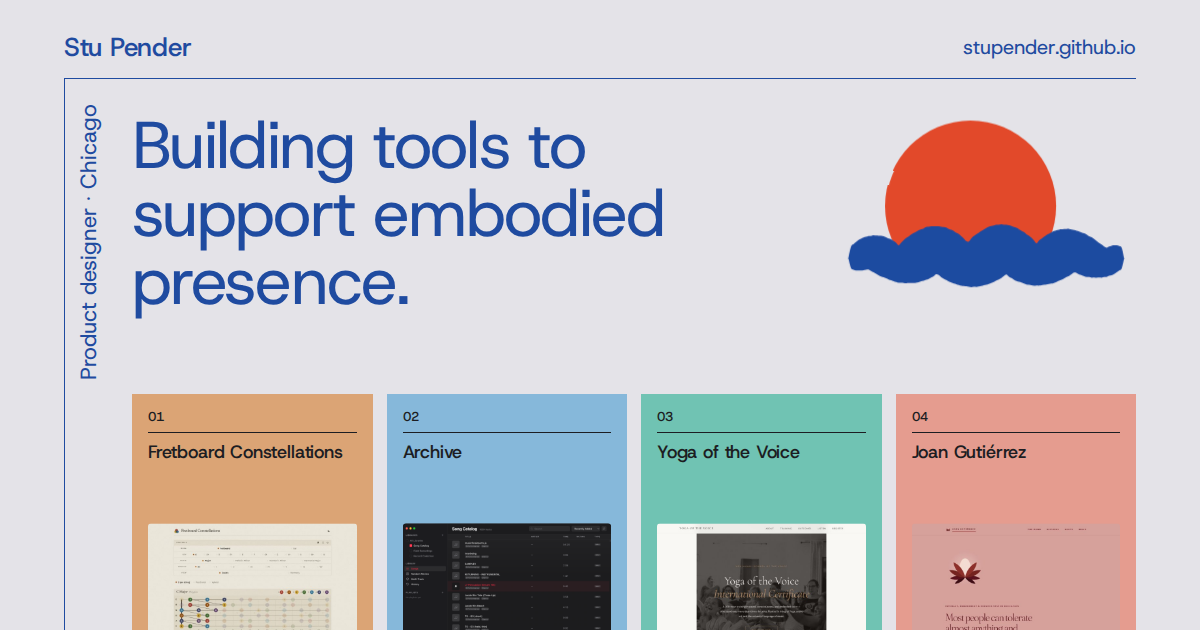
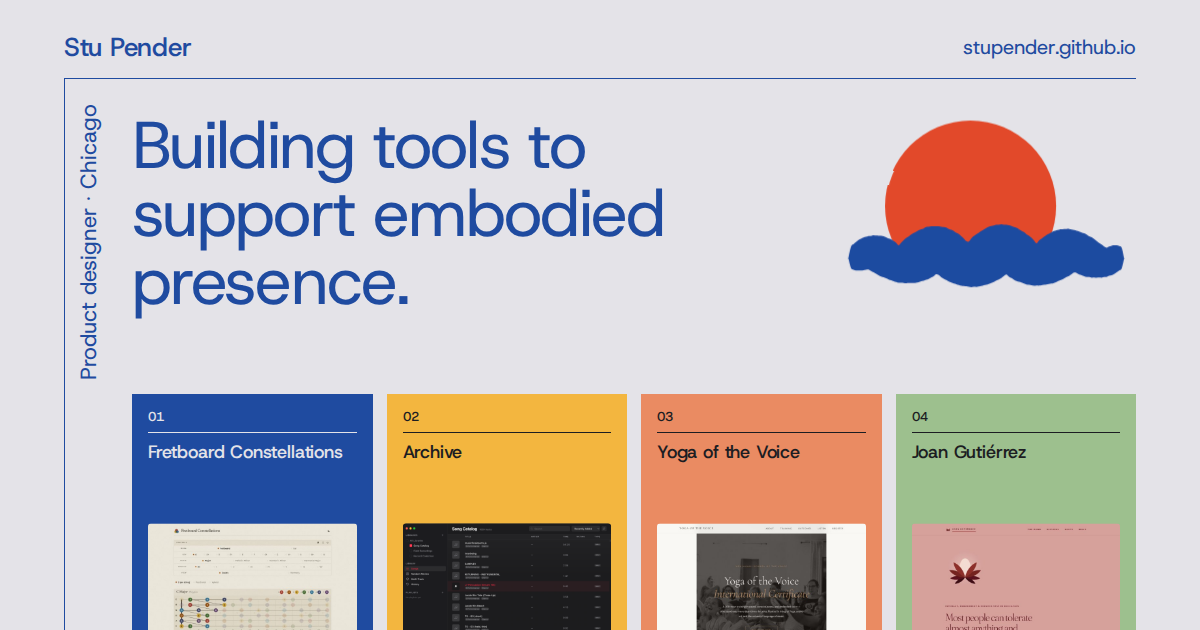
Palette D: cobalt, saffron, terracotta, sage — chosen against each screenshot
The cards and case-study headers move to colours picked so each
screenshot stands out: cobalt for Fretboard (the blue of the type),
saffron for Archive, terracotta for Yoga of the Voice, sage for Joan
Gutiérrez (05 khaki, 11 slate). Cobalt is the one dark field, so its
card, header and next card print light type via .on-dark; panels and
other next cards reset to black. Lower-panel pairs follow:
cobalt/butter, saffron/slate, terracotta/teal, sage/mauve, khaki/orange,
slate/sand. Link-preview card updated to match. Contrast passes AA.

Claude-Session: https://claude.ai/code/session_01LLZ4q1jfkHcvGvjUiXE1J6

Changed region(s): [[0.0925, 0.6032, 0.9558, 1.0]]

diff --git a/styles.css b/styles.css
@@ -50,28 +50,31 @@
     --hair:       rgb(var(--cobalt-rgb) / 0.26);
     --sun:        #E24A2B;                 /* the sun in the picture only  */
 
-    /* Fields — one colour per project, for its card and the back of the
-       card (its case study). One lightness (OKLCH 0.76), low chroma,
-       blue held lower still, so they read as one muted set. Ink on each
-       is ≥ 7.8 : 1; secondary text is ink at 78% (≥ 5.1 : 1). */
-    --f-coral:    #E59C8F;
-    --f-orange:   #DBA475;
-    --f-mustard:  #CBAD6D;
-    --f-sage:     #9ABE87;
-    --f-teal:     #70C3B3;
-    --f-sky:      #86B8DA;
+    /* Fields — one colour per project, chosen against its screenshot
+       so the work stands out: the colour of its card and of the top of
+       its case study. Ink on each ≥ 6.7 : 1, ink at 78% ≥ 4.5 : 1.
+       Cobalt is the one dark field: type on it prints light (.on-dark,
+       grey on cobalt 6.4 : 1, at 82% 4.9 : 1). */
+    --f-sky:        #86B8DA;
+    --f-cobalt:     var(--cobalt);
+    --f-saffron:    #F3B63F;
+    --f-terracotta: #EA8B62;
+    --f-sage:       #9DC08E;
+    --f-khaki:      #ABA884;
+    --f-slate:      #99AACB;
     /* Pairs — each case study's lower panels (the summary, the client's
-       words) take a counterpart to its card colour, the way the 1971
-       catalogue pairs an orange cover with a khaki one. Same rules: ink
-       ≥ 6.9 : 1, ink at 78% ≥ 4.6 : 1. */
-    --p-khaki:    #ABA884;                 /* with orange  (01) */
-    --p-sand:     #D9BC86;                 /* with sky     (02) */
-    --p-clay:     #DE9F86;                 /* with teal    (03) */
-    --p-sage2:    #A5BC92;                 /* with coral   (04) */
-    --p-mauve:    #CDA3AE;                 /* with sage    (05) */
-    --p-slate:    #99AACB;                 /* with mustard (11) */
-    --on-field:   rgb(var(--ink-rgb) / 0.78);
-    --field-rule: rgb(var(--ink-rgb) / 0.3);
+       words) take a counterpart to its field, the way the 1971 catalogue
+       pairs an orange cover with a khaki one. Same contrast rules. */
+    --p-sand:       #D9BC86;               /* with sky, with slate     */
+    --p-butter:     #E9CB80;               /* with cobalt              */
+    --p-slate:      #A3B3D2;               /* with saffron             */
+    --p-teal:       #8CC3B4;               /* with terracotta          */
+    --p-mauve:      #CDA3AE;               /* with sage                */
+    --p-orange:     #DBA475;               /* with khaki               */
+    /* Type on a field: black by default, light on a dark field. */
+    --on:           var(--ink);
+    --on-soft:      rgb(var(--ink-rgb) / 0.78);
+    --on-rule:      rgb(var(--ink-rgb) / 0.3);
 
     --font: 'Host Grotesk', 'Helvetica Neue', Arial, sans-serif;
 
@@ -488,7 +491,7 @@ a[download]::after {
     aspect-ratio: 4 / 5;
     padding: clamp(0.95rem, 1.6vw, 1.25rem) clamp(0.95rem, 1.6vw, 1.25rem) 0;
     background: var(--field);
-    color: var(--ink);
+    color: var(--on);
     text-decoration: none;
     overflow: hidden;
 }
@@ -496,7 +499,7 @@ a[download]::after {
     display: flex;
     justify-content: space-between;
     padding-bottom: 0.55rem;
-    border-bottom: 1px solid var(--ink);
+    border-bottom: 1px solid var(--on);
     font-size: var(--t-small);
     font-variant-numeric: tabular-nums;
 }
@@ -515,7 +518,7 @@ a[download]::after {
     margin-top: 0.35rem;
     font-size: var(--t-small);
     line-height: 1.35;
-    color: var(--on-field);
+    color: var(--on-soft);
 }
 .card-img,
 .cs-next-img {
@@ -534,7 +537,7 @@ a[download]::after {
 .card:hover .card-title,
 .cs-next-link:hover .cs-next-name {
     text-decoration: underline;
-    text-decoration-color: var(--ink);
+    text-decoration-color: var(--on);
     text-decoration-thickness: 2px;
     text-underline-offset: 0.18em;
 }
@@ -840,34 +843,34 @@ a[download]::after {
     margin-bottom: clamp(2rem, 5vw, 3rem);
     padding: clamp(1.2rem, 3vw, 2rem) clamp(1.2rem, 3.5vw, 2.6rem) clamp(1.4rem, 3.5vw, 2.4rem);
     background: var(--field, var(--card));
-    color: var(--ink);
+    color: var(--on);
 }
 .cs-head .eyebrow {
     font-size: var(--t-small);
     font-weight: 400;
-    color: var(--ink);
+    color: var(--on);
     padding-top: 0.6rem;
-    border-top: 1px solid var(--ink);
+    border-top: 1px solid var(--on);
     margin-bottom: clamp(1.8rem, 5vw, 3.2rem);
 }
 .cs-no { font-weight: 500; margin-right: 0.6rem; }
 .cs-title { font-size: var(--t-h1); line-height: 1.02; letter-spacing: -0.025em; margin: 0 0 1rem; }
-.cs-sub { font-size: var(--t-lede); line-height: 1.5; color: var(--on-field); margin: 0 0 1.8rem; }
+.cs-sub { font-size: var(--t-lede); line-height: 1.5; color: var(--on-soft); margin: 0 0 1.8rem; }
 .cs-meta {
     display: flex;
     flex-wrap: wrap;
     gap: 0.8rem 2.6rem;
     margin: auto 0 1.4rem;
     padding: 1rem 0;
-    border-top: 1px solid var(--field-rule);
-    border-bottom: 1px solid var(--field-rule);
+    border-top: 1px solid var(--on-rule);
+    border-bottom: 1px solid var(--on-rule);
 }
-.cs-meta dt { font-size: var(--t-label); color: var(--on-field); margin-bottom: 0.15rem; }
+.cs-meta dt { font-size: var(--t-label); color: var(--on-soft); margin-bottom: 0.15rem; }
 .cs-meta dd { margin: 0; font-size: var(--t-small); }
 .cs-toplinks { margin: 0; }
 /* On a colour, cobalt type is too faint: buttons print in black there. */
-.cs-head .project-links a { color: var(--ink); }
-.cs-head .project-links a:hover { background: var(--ink); border-color: var(--ink); color: var(--paper); }
+.cs-head .project-links a { color: var(--on); }
+.cs-head .project-links a:hover { background: var(--on); border-color: var(--on); color: var(--field); }
 
 .cs-figure { margin: 2rem 0; }
 .cs-figure img { width: 100%; outline: 1px solid var(--hair); }
@@ -903,6 +906,26 @@ a[download]::after {
 .cs-tldr dd { margin: 0; line-height: 1.55; color: var(--ink-soft); max-width: 66ch; }
 .cs-tldr dd strong { color: var(--ink); }
 
+/* Light type on a dark field (cobalt). Panels and the next card set
+   their own type, so a dark top never leaks onto a light panel. */
+.on-dark {
+    --on:      var(--paper);
+    --on-soft: rgb(var(--paper-rgb) / 0.82);
+    --on-rule: rgb(var(--paper-rgb) / 0.4);
+}
+.cs-tldr, .cs-quote, .cs-next-link {
+    --on:      var(--ink);
+    --on-soft: rgb(var(--ink-rgb) / 0.78);
+    --on-rule: rgb(var(--ink-rgb) / 0.3);
+}
+.cs-next-link.on-dark {
+    --on:      var(--paper);
+    --on-soft: rgb(var(--paper-rgb) / 0.82);
+    --on-rule: rgb(var(--paper-rgb) / 0.4);
+}
+/* A block on a cobalt card turns paper, so it doesn't vanish. */
+.cs-next-link.on-dark .blk { background: var(--paper); border-color: var(--paper); color: var(--cobalt); }
+
 /* The lower panels: on a case study with a pair colour, the summary
    and the client's words sit on that counterpart, full width, set like
    the header above them — a rule, then the words, all in black. */
@@ -913,14 +936,14 @@ a[download]::after {
     border-top: 0;
 }
 .cs[style] .cs-head + .cs-tldr { margin-top: calc(-1 * clamp(2rem, 5vw, 3rem) + clamp(0.8rem, 1.8vw, 1.25rem)); }
-.cs[style] .cs-tldr .eyebrow { color: var(--ink); padding-top: 0.6rem; border-top: 1px solid var(--ink); margin-bottom: 1.2rem; }
+.cs[style] .cs-tldr .eyebrow { color: var(--on); padding-top: 0.6rem; border-top: 1px solid var(--on); margin-bottom: 1.2rem; }
 .cs[style] .cs-tldr dl { border-top: 0; }
-.cs[style] .cs-tldr dl > div { border-bottom-color: var(--field-rule); }
+.cs[style] .cs-tldr dl > div { border-bottom-color: var(--on-rule); }
 .cs[style] .cs-tldr dl > div:last-child { border-bottom: 0; padding-bottom: 0; }
-.cs[style] .cs-tldr dt { color: var(--on-field); }
-.cs[style] .cs-tldr dd { color: var(--ink); }
-.cs[style] .cs-quote p { color: var(--ink); padding-top: 0.6rem; border-top: 1px solid var(--ink); }
-.cs[style] .cs-quote cite { color: var(--on-field); }
+.cs[style] .cs-tldr dt { color: var(--on-soft); }
+.cs[style] .cs-tldr dd { color: var(--on); }
+.cs[style] .cs-quote p { color: var(--on); padding-top: 0.6rem; border-top: 1px solid var(--on); }
+.cs[style] .cs-quote cite { color: var(--on-soft); }
 
 /* Next — the next project's card, in its colour. */
 .cs-next { margin-top: clamp(3rem, 7vw, 5rem); }
@@ -930,14 +953,14 @@ a[download]::after {
     column-gap: clamp(1.2rem, 4vw, 3rem);
     padding: clamp(1rem, 2.4vw, 1.6rem) clamp(1rem, 2.4vw, 1.6rem) 0;
     background: var(--field, var(--card));
-    color: var(--ink);
+    color: var(--on);
     text-decoration: none;
     overflow: hidden;
 }
 .cs-next-link > span:not(.cs-next-img) { grid-column: 1; }
-.cs-next-label { padding-bottom: 0.55rem; border-bottom: 1px solid var(--ink); font-size: var(--t-small); margin-bottom: 0.7rem; }
+.cs-next-label { padding-bottom: 0.55rem; border-bottom: 1px solid var(--on); font-size: var(--t-small); margin-bottom: 0.7rem; }
 .cs-next-name { font-size: var(--t-h3); line-height: 1.2; letter-spacing: -0.01em; }
-.cs-next-for { margin-top: 0.4rem; color: var(--on-field); }
+.cs-next-for { margin-top: 0.4rem; color: var(--on-soft); }
 .cs-next-go { justify-self: start; margin: 1.4rem 0 clamp(1rem, 2.4vw, 1.6rem); }
 .cs-next-img { grid-column: 2; grid-row: 1 / span 4; align-self: end; margin-top: 1.2rem; transform: translateY(10%); }
 .cs-next-all { display: inline-block; margin-top: 1rem; font-size: var(--t-small); text-decoration: none; color: var(--cobalt); }

diff --git a/index.html b/index.html
@@ -85,25 +85,25 @@
                  opens its case study, like the back of the card. -->
             <nav class="cards" aria-label="Selected work">
                 <ol class="cards-list">
-                    <li><a class="card" href="#fretboard" style="--field:var(--f-orange)">
+                    <li><a class="card on-dark" href="#fretboard" style="--field:var(--f-cobalt)">
                         <span class="card-top"><span class="card-no">01</span><span class="card-year">2025 –</span></span>
                         <span class="card-title">Fretboard Constellations</span>
                         <span class="card-for">For a teacher, mid-lesson</span>
                         <span class="card-img"><img src="images/thumbs/fretboard.jpg" alt="" width="640" height="436" loading="lazy"></span>
                     </a></li>
-                    <li><a class="card" href="#archive" style="--field:var(--f-sky)">
+                    <li><a class="card" href="#archive" style="--field:var(--f-saffron)">
                         <span class="card-top"><span class="card-no">02</span><span class="card-year">2025 –</span></span>
                         <span class="card-title">Archive</span>
                         <span class="card-for">For a musician, mid-session</span>
                         <span class="card-img card-img--window"><img src="images/thumbs/archive.png" alt="" width="640" height="400" loading="lazy"></span>
                     </a></li>
-                    <li><a class="card" href="#vox" style="--field:var(--f-teal)">
+                    <li><a class="card" href="#vox" style="--field:var(--f-terracotta)">
                         <span class="card-top"><span class="card-no">03</span><span class="card-year">2026</span></span>
                         <span class="card-title">Yoga of the Voice</span>
                         <span class="card-for">For a newcomer, meeting a practice</span>
                         <span class="card-img"><img src="images/thumbs/vox.jpg" alt="" width="640" height="436" loading="lazy"></span>
                     </a></li>
-                    <li><a class="card" href="#joan" style="--field:var(--f-coral)">
+                    <li><a class="card" href="#joan" style="--field:var(--f-sage)">
                         <span class="card-top"><span class="card-no">04</span><span class="card-year">2026</span></span>
                         <span class="card-title">Joan Gutiérrez</span>
                         <span class="card-for">For a visitor who arrives tender</span>

diff --git a/archive.html b/archive.html
@@ -57,7 +57,7 @@
             </a>
         </div>
 
-        <article class="cs" style="--field:var(--f-mustard); --pair:var(--p-slate)">
+        <article class="cs" style="--field:var(--f-slate); --pair:var(--p-sand)">
             <header class="cs-head">
                 <p class="eyebrow"><span class="cs-no">No. 11</span> Experiments · c. 2020</p>
                 <h1 id="archive-heading" class="cs-title">Experiments &amp; early work</h1>
@@ -112,7 +112,7 @@
             </div>
 
             <nav class="cs-next no-print" aria-label="More work">
-                <a class="cs-next-link" href="fretboard-constellations.html" style="--field:var(--f-orange)">
+                <a class="cs-next-link on-dark" href="fretboard-constellations.html" style="--field:var(--f-cobalt)">
                     <span class="cs-next-label">Back to the start · 01</span>
                     <span class="cs-next-name">Fretboard Constellations</span>
                     <span class="cs-next-for">For a teacher, mid-lesson</span>

diff --git a/ground-beneath-our-feet.html b/ground-beneath-our-feet.html
@@ -56,7 +56,7 @@
                 <span>Close</span>
             </a>
         </div>
-        <article class="cs" style="--field:var(--f-sage); --pair:var(--p-mauve)">
+        <article class="cs" style="--field:var(--f-khaki); --pair:var(--p-orange)">
 
             <!-- ============ HERO ============ -->
             <header class="cs-head">
@@ -184,7 +184,7 @@
             </section>
 
             <nav class="cs-next no-print" aria-label="More work">
-                <a class="cs-next-link" href="fretboard-constellations.html" style="--field:var(--f-orange)">
+                <a class="cs-next-link on-dark" href="fretboard-constellations.html" style="--field:var(--f-cobalt)">
                     <span class="cs-next-label">No. 01</span>
                     <span class="cs-next-name">Fretboard Constellations</span>
                     <span class="cs-next-for">For a teacher, mid-lesson</span>

diff --git a/archive-case-study.html b/archive-case-study.html
@@ -56,7 +56,7 @@
                 <span>Close</span>
             </a>
         </div>
-        <article class="cs" style="--field:var(--f-sky); --pair:var(--p-sand)">
+        <article class="cs" style="--field:var(--f-saffron); --pair:var(--p-slate)">
 
             <!-- ============ HERO ============ -->
             <header class="cs-head">
@@ -295,7 +295,7 @@
             </section>
 
             <nav class="cs-next no-print" aria-label="More work">
-                <a class="cs-next-link" href="yoga-of-the-voice.html" style="--field:var(--f-teal)">
+                <a class="cs-next-link" href="yoga-of-the-voice.html" style="--field:var(--f-terracotta)">
                     <span class="cs-next-label">No. 03</span>
                     <span class="cs-next-name">Yoga of the Voice</span>
                     <span class="cs-next-for">For a newcomer, meeting a thirty-year practice</span>

diff --git a/joan-gutierrez.html b/joan-gutierrez.html
@@ -56,7 +56,7 @@
                 <span>Close</span>
             </a>
         </div>
-        <article class="cs" style="--field:var(--f-coral); --pair:var(--p-sage2)">
+        <article class="cs" style="--field:var(--f-sage); --pair:var(--p-mauve)">
 
             <!-- ============ HERO ============ -->
             <header class="cs-head">
@@ -171,7 +171,7 @@
 
 
             <nav class="cs-next no-print" aria-label="More work">
-                <a class="cs-next-link" href="ground-beneath-our-feet.html" style="--field:var(--f-sage)">
+                <a class="cs-next-link" href="ground-beneath-our-feet.html" style="--field:var(--f-khaki)">
                     <span class="cs-next-label">No. 05</span>
                     <span class="cs-next-name">The Ground Beneath Our Feet</span>
                     <span class="cs-next-for">For a music supervisor, on deadline</span>

diff --git a/yoga-of-the-voice.html b/yoga-of-the-voice.html
@@ -56,7 +56,7 @@
                 <span>Close</span>
             </a>
         </div>
-        <article class="cs" style="--field:var(--f-teal); --pair:var(--p-clay)">
+        <article class="cs" style="--field:var(--f-terracotta); --pair:var(--p-teal)">
 
             <!-- ============ HERO ============ -->
             <header class="cs-head">
@@ -250,7 +250,7 @@
             </section>
 
             <nav class="cs-next no-print" aria-label="More work">
-                <a class="cs-next-link" href="joan-gutierrez.html" style="--field:var(--f-coral)">
+                <a class="cs-next-link" href="joan-gutierrez.html" style="--field:var(--f-sage)">
                     <span class="cs-next-label">No. 04</span>
                     <span class="cs-next-name">Joan Gutiérrez</span>
                     <span class="cs-next-for">For a visitor who arrives tender</span>

diff --git a/fretboard-constellations.html b/fretboard-constellations.html
@@ -56,7 +56,7 @@
                 <span>Close</span>
             </a>
         </div>
-        <article class="cs" style="--field:var(--f-orange); --pair:var(--p-khaki)">
+        <article class="cs on-dark" style="--field:var(--f-cobalt); --pair:var(--p-butter)">
 
             <!-- ============ HERO ============ -->
             <header class="cs-head">
@@ -234,7 +234,7 @@
 
 
             <nav class="cs-next no-print" aria-label="More work">
-                <a class="cs-next-link" href="archive-case-study.html" style="--field:var(--f-sky)">
+                <a class="cs-next-link" href="archive-case-study.html" style="--field:var(--f-saffron)">
                     <span class="cs-next-label">No. 02</span>
                     <span class="cs-next-name">Archive</span>
                     <span class="cs-next-for">For a musician, mid-session</span>

diff --git a/README.md b/README.md
@@ -26,10 +26,12 @@ Transient Senses programme:
   their contents and a picture of the work.
 - **Back** — the case study opens on the card's colour, flat, like the back of the
   card, and ends on the next project's card (01 → 05 → back to 01).
-- The colours (`--f-*`) share one lightness and a low chroma, so they read as one set.
+- The colours (`--f-*`) are chosen against each screenshot so the work stands out: cobalt
+  (01), saffron (02), terracotta (03), sage (04), khaki (05), slate (11). Cobalt is the one
+  dark colour, so its card, case-study header and next card add `.on-dark` for light type.
 - **Pairs** — below the header, a case study's summary ("In short") and pull-quote sit on
   a counterpart colour (`--pair`, from `--p-*`), the way the 1971 catalogue pairs an
-  orange cover with a khaki one: orange/khaki, sky/sand, teal/clay, coral/sage.
+  orange cover with a khaki one: cobalt/butter, saffron/slate, terracotta/teal, sage/mauve.
 - The hero picture is cut paper: a red sun rising behind a cobalt wave (inline SVG).
   The red is used nowhere else.
 - Anything you can press is cobalt and turns black on hover. On a colour card,
